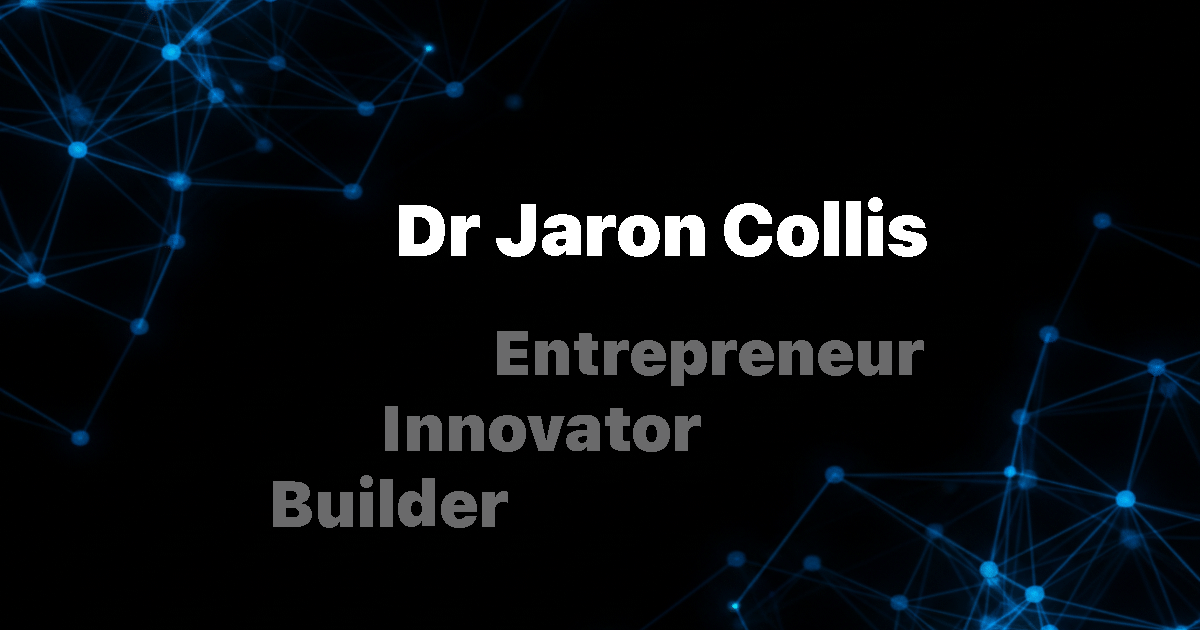
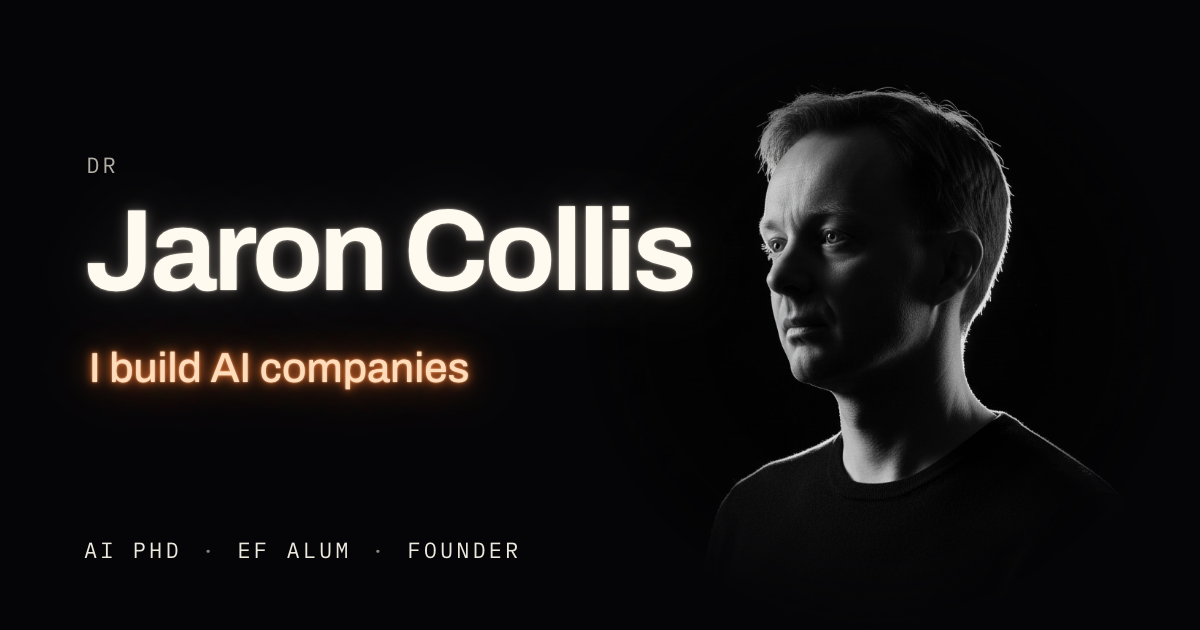
share card: the home page's look, drawn from a page
The portrait on the ink, the name with its glow, "I build AI companies", and
"AI PhD · EF alum · Founder" in mono. scripts/og-card.html is the card;
node scripts/og-image.mjs renders it to public/og-image.png.

diff --git a/scripts/og-card.html b/scripts/og-card.html
@@ -1,0 +1,114 @@
+<!doctype html>
+<!-- The card a shared link to the home page shows (public/og-image.png, 1200 x 630), drawn as the page is: the ink
+     ground, the portrait melting into it on the right, the name with its glow, the warm line, the facts in mono, as
+     said on a phone. No address:
+     a link's preview shows it.
+     Rendered by scripts/og-image.mjs. -->
+<html lang="en-GB">
+<head>
+<meta charset="utf-8" />
+<style>
+    @font-face { font-family: 'Archivo'; src: url('../public/fonts/Archivo-w1000-500.ttf'); font-weight: 500; }
+    @font-face { font-family: 'Archivo'; src: url('../public/fonts/Archivo-w1000-700.ttf'); font-weight: 700; }
+    @font-face { font-family: 'Plex Mono'; src: url('../public/fonts/src/IBMPlexMono-Regular.ttf'); font-weight: 400; }
+
+    :root {
+        --ink: #050507;
+        --bone: #eee9df;
+        --ash: #b3aea5;
+        --graphite: #8a857d;
+    }
+
+    * { box-sizing: border-box; margin: 0; padding: 0; }
+
+    body {
+        width: 1200px;
+        height: 630px;
+        overflow: hidden;
+        position: relative;
+        background: var(--ink);
+        color: var(--bone);
+        font-family: 'Archivo', sans-serif;
+        -webkit-font-smoothing: antialiased;
+    }
+
+    .portrait {
+        position: absolute;
+        top: 10px;
+        right: 10px;
+        width: 620px;
+        height: 620px;
+        object-fit: cover;
+        object-position: 60% 30%;
+        opacity: 0.9;
+        -webkit-mask-image: radial-gradient(closest-side, #000 55%, transparent);
+        mask-image: radial-gradient(closest-side, #000 55%, transparent);
+    }
+
+    .words {
+        position: absolute;
+        left: 84px;
+        top: 150px;
+    }
+
+    .label {
+        font: 400 22px/1.4 'Plex Mono', monospace;
+        letter-spacing: 0.14em;
+        text-transform: uppercase;
+        color: var(--ash);
+    }
+
+    .name {
+        font-weight: 700;
+        font-size: 116px;
+        line-height: 0.9;
+        letter-spacing: -0.035em;
+        color: #fffaf0;
+        text-shadow:
+            0 0 0.02em rgb(255 248 235 / 0.7),
+            0 0 0.12em rgb(255 240 220 / 0.35),
+            0 0 0.5em rgb(255 235 210 / 0.12);
+    }
+
+    .name .label {
+        display: block;
+        margin: 0 0 18px 0.1em;
+        text-shadow: none;
+    }
+
+    .doing {
+        margin: 0.9em 0 0 0.12em;
+        font-weight: 500;
+        font-size: 42px;
+        line-height: 1.3;
+        color: #ffdcbc;
+        text-shadow:
+            0 0 0.05em rgb(255 190 130 / 1),
+            0 0 0.22em rgb(255 122 47 / 1),
+            0 0 0.6em rgb(255 122 47 / 0.6),
+            0 0 1.4em rgb(255 100 30 / 0.35);
+    }
+
+    .foot {
+        position: absolute;
+        left: 84px;
+        right: 84px;
+        bottom: 64px;
+        white-space: nowrap;
+    }
+
+    .facts span { color: var(--bone); }
+    .facts i { font-style: normal; color: var(--graphite); margin: 0 0.9em; }
+</style>
+</head>
+<body>
+    <img class="portrait" src="../public/imgs/profile.jpg" alt="" />
+    <div class="words">
+        <h1 class="name"><span class="label">Dr</span>Jaron Collis</h1>
+        <p class="doing">I build AI companies</p>
+    </div>
+    <div class="foot label">
+        <p class="facts"><span>AI PhD</span><i>·</i><span>EF alum</span><i>·</i><span>Founder</span></p>
+    </div>
+</body>
+</html>
